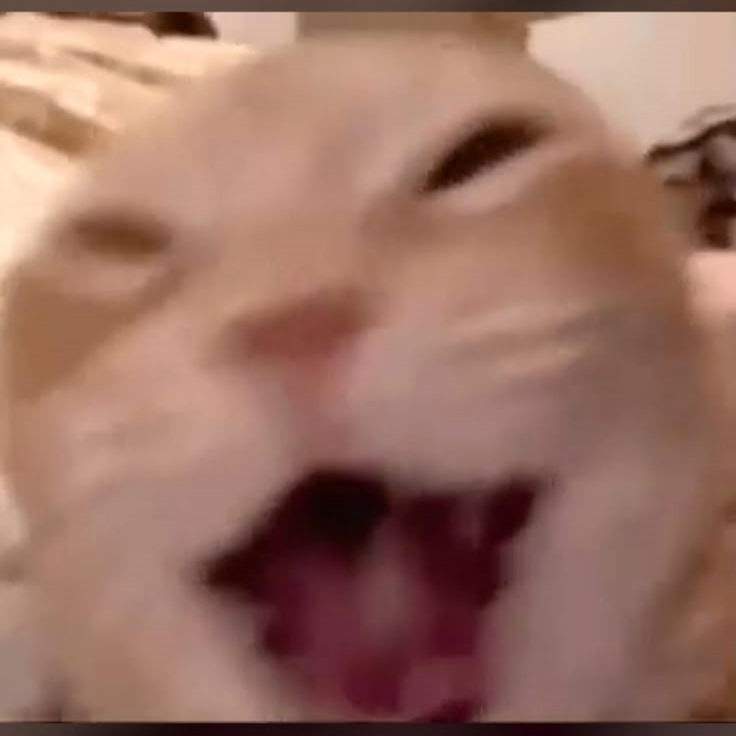
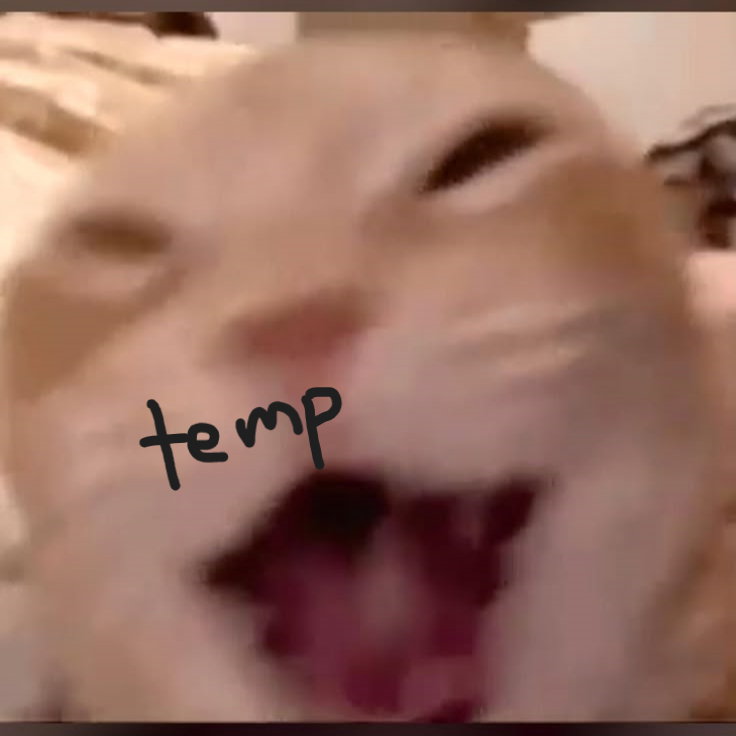
improved bin UI

Changed region(s): [[0.1875, 0.5, 0.4688, 0.6875]]

diff --git a/lib/screens/bin_screen.dart b/lib/screens/bin_screen.dart
@@ -149,7 +149,7 @@ class _BinScreenState extends State<BinScreen> {
   @override
   Widget build(BuildContext context) {
     return Scaffold(
-      backgroundColor: const Color.fromARGB(255, 239, 220, 224),
+      backgroundColor: const Color.fromARGB(255, 170, 158, 165),
       body: Container( // Kept from alpha-version
         child: SafeArea(
           child: Column(
@@ -228,10 +228,10 @@ class _BinScreenState extends State<BinScreen> {
               ? TextButton.icon(
                   onPressed: _deselectAll,
                   icon: const Icon(Icons.close,
-                      color: Color.fromARGB(255, 250, 132, 154), size: 15),
+                      color: Color.fromARGB(255, 255, 71, 71), size: 25),
                   label: const Text('Deselect All',
                       style: TextStyle(
-                          color: Color.fromARGB(255, 250, 132, 154))),
+                          color: Color.fromARGB(255, 255, 71, 71))),
                 )
               : IconButton(
                   icon: _shadowedIcon(Icons.close,
@@ -256,10 +256,10 @@ class _BinScreenState extends State<BinScreen> {
                 }
               });
             },
-            icon: !_isMultiSelectMode ? null : Icon(Icons.delete_forever, size: 18),
+            icon: !_isMultiSelectMode ? null : Icon(Icons.delete_forever, size: 25),
             label: _isMultiSelectMode ? 
             Text('${_selectedIds.length}') :
-            Icon(Icons.delete, size: 18),
+            Icon(Icons.delete, size: 25),
 
             style: ElevatedButton.styleFrom(
               backgroundColor: Colors.transparent,
@@ -281,13 +281,28 @@ class _BinScreenState extends State<BinScreen> {
       color: Colors.transparent,
       padding: const EdgeInsets.symmetric(horizontal: 16, vertical: 8),
       child: Row(
-        mainAxisAlignment: MainAxisAlignment.spaceBetween,
+        mainAxisAlignment: MainAxisAlignment.center,
         children: [
-          const Text('Recents',
-              style: TextStyle(
-                  color: Color.fromARGB(255, 37, 6, 6),
-                  fontWeight: FontWeight.bold,
-                  fontSize: 18)),
+          Column(
+            children: [
+              Text('Bin',
+                textAlign: TextAlign.center,
+                    style: TextStyle(
+                        color: Color.fromARGB(255, 37, 6, 6),
+                        fontWeight: FontWeight.bold,
+                        fontSize: 18
+                      )
+              ),
+              Text('Binned memories expire after 6 hours.',
+                textAlign: TextAlign.center,
+                    style: TextStyle(
+                        color: Color.fromARGB(255, 37, 6, 6).withValues(alpha: 0.5),
+                        fontWeight: FontWeight.normal,
+                        fontSize: 14
+                      )
+              ),
+            ],
+          )
           
         ],
       ),
@@ -333,81 +348,99 @@ class _BinGridTile extends StatelessWidget {
           });
         }
       },
-      child: ClipRRect(
-        borderRadius: BorderRadius.circular(8),
-        child: Stack(
-          fit: StackFit.expand,
-          children: [
-
-              
-            CachedNetworkImage(
-              imageUrl: item.imageUrl,
-              fit: BoxFit.cover,
-              placeholder: (context, url) =>
-                  Container(color: Colors.black.withAlpha(100)),
-              errorWidget: (context, url, error) => const Icon(Icons.error),
+      child: Stack(
+        fit: StackFit.expand,
+        children: [
+          Container(
+            decoration: BoxDecoration(
+              borderRadius: BorderRadius.circular(8),
+              boxShadow: [
+                BoxShadow(
+                  color: Colors.black.withAlpha(50),
+                  blurRadius: 4,
+                  spreadRadius: 1
+                )
+              ]
             ),
-
-
-            // Gradient for text visibility
-            Container(
-              decoration: const BoxDecoration(
-                gradient: LinearGradient(
-                  colors: [Colors.transparent, Colors.black54],
-                  begin: Alignment.topCenter,
-                  end: Alignment.bottomCenter,
+          ),
+          ClipRRect(
+            borderRadius: BorderRadius.circular(8),
+            
+            child: Stack(
+              fit: StackFit.expand,
+              children: [
+                
+                  
+                CachedNetworkImage(
+                  imageUrl: item.imageUrl,
+                  fit: BoxFit.cover,
+                  placeholder: (context, url) =>
+                      Container(color: Colors.black.withAlpha(100)),
+                  errorWidget: (context, url, error) => const Icon(Icons.error),
                 ),
-              ),
-            ),
 
-            // Selection overlay
-            Container(
-              color: isSelected
-                  ? _kPrimarySelectionColor.withOpacity(0.4)
-                  : Colors.transparent,
-            ),
 
-            // Checkbox (only in multi-select mode)
-            if (isMultiSelectMode)
-              Positioned(
-                top: 5,
-                right: 5,
-                child: Container(
-                  padding: const EdgeInsets.all(2),
-                  decoration: BoxDecoration(
-                    color: Colors.white,
-                    borderRadius: BorderRadius.circular(4),
+                // Gradient for text visibility
+                Container(
+                  decoration: const BoxDecoration(
+                    gradient: LinearGradient(
+                      colors: [Colors.transparent, Colors.black54],
+                      begin: Alignment.topCenter,
+                      end: Alignment.bottomCenter,
+                    ),
                   ),
-                  child: isSelected
-                      ? const Icon(Icons.check_box, size: 18, color: Colors.blue)
-                      : const Icon(Icons.check_box_outline_blank,
-                          size: 18, color: Colors.grey),
                 ),
-              ),
 
-            // Remaining time
-            Positioned(
-              bottom: 5,
-              left: 5,
-              right: 5,
-              child: Row(
-                children: [
-                  Icon(Icons.access_time_sharp, color: Colors.white, size: 16),
-                  SizedBox(width: 5),
-                  Text(
-                    isSelected ? '' : remainingTime,
-                    style: const TextStyle(
+                // Selection overlay
+                Container(
+                  color: isSelected
+                      ? _kPrimarySelectionColor.withOpacity(0.4)
+                      : Colors.transparent,
+                ),
+
+                // Checkbox (only in multi-select mode)
+                if (isMultiSelectMode)
+                  Positioned(
+                    top: 5,
+                    right: 5,
+                    child: Container(
+                      padding: const EdgeInsets.all(2),
+                      decoration: BoxDecoration(
                         color: Colors.white,
-                        fontSize: 10,
-                        fontWeight: FontWeight.bold,
-                        shadows: [Shadow(blurRadius: 2.0, color: Colors.black)]),
+                        borderRadius: BorderRadius.circular(4),
+                      ),
+                      child: isSelected
+                          ? const Icon(Icons.check_box, size: 18, color: Colors.blue)
+                          : const Icon(Icons.check_box_outline_blank,
+                              size: 18, color: Colors.grey),
+                    ),
                   ),
-                ],
-              )
+
+                // Remaining time
+                Positioned(
+                  bottom: 5,
+                  left: 5,
+                  right: 5,
+                  child: Row(
+                    children: [
+                      Icon(Icons.access_time_sharp, color: Colors.white, size: 16),
+                      SizedBox(width: 5),
+                      Text(
+                        isSelected ? '' : remainingTime,
+                        style: const TextStyle(
+                            color: Colors.white,
+                            fontSize: 10,
+                            fontWeight: FontWeight.bold,
+                            shadows: [Shadow(blurRadius: 2.0, color: Colors.black)]),
+                      ),
+                    ],
+                  )
+                ),
+              ],
             ),
-          ],
-        ),
-      ),
+          ),
+        ],
+      )
     );
   }
 }
